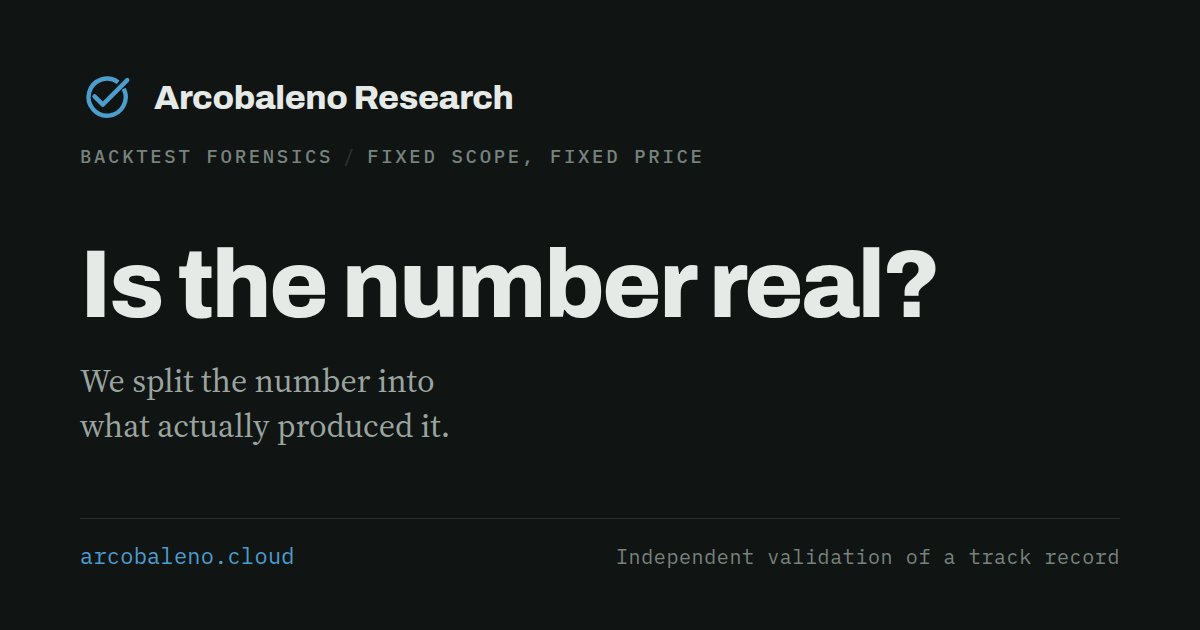
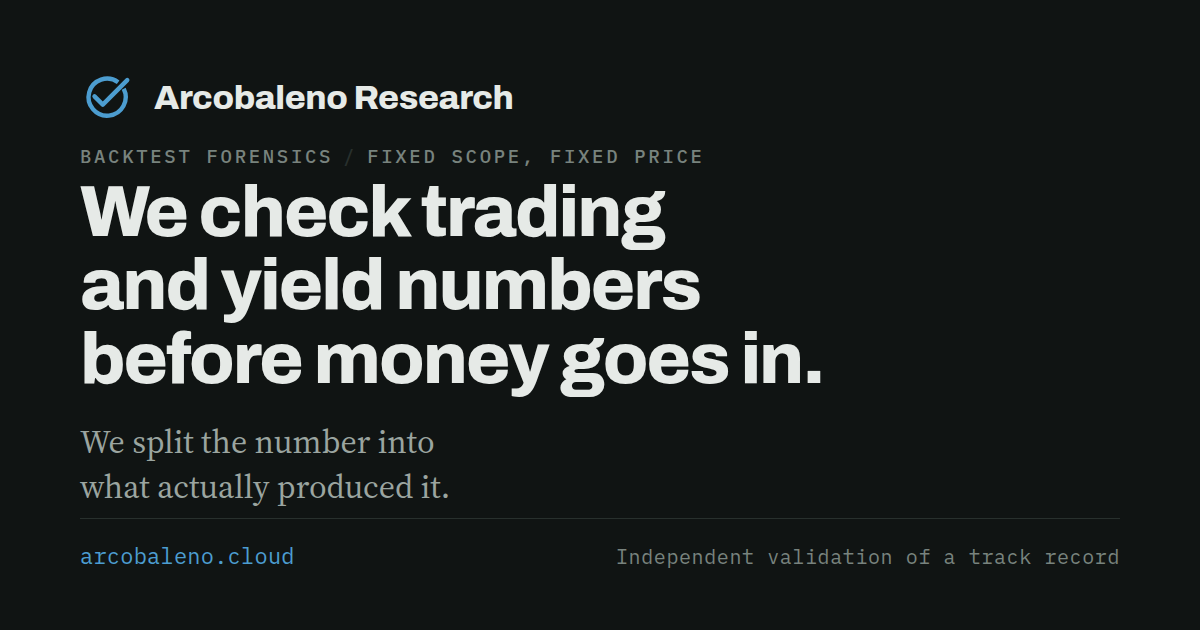
Hero headline: 'We check trading and yield numbers before money goes in.' + social card

Changed region(s): [[0.0617, 0.2714, 0.8017, 0.6333], [0.0617, 0.6635, 0.37, 0.7238], [0.0617, 0.754, 0.37, 0.8143]]

diff --git a/index.html b/index.html
@@ -18,12 +18,12 @@
 <meta property="og:image:type" content="image/png">
 <meta property="og:image:width" content="1200">
 <meta property="og:image:height" content="630">
-<meta property="og:image:alt" content="Arcobaleno Research — Is the number real? Backtest forensics, fixed scope, fixed price.">
+<meta property="og:image:alt" content="Arcobaleno Research — We check trading and yield numbers before money goes in. Backtest forensics, fixed scope, fixed price.">
 <meta name="twitter:card" content="summary_large_image">
 <meta name="twitter:title" content="Backtest Forensics — Arcobaleno Research">
 <meta name="twitter:description" content="Fixed-scope backtest audits from Arcobaleno Research. Ten findings published against our own work — reproducibility, data integrity, cost models, staleness, confidence intervals and evidence count.">
 <meta name="twitter:image" content="https://arcobaleno.cloud/card.png">
-<meta name="twitter:image:alt" content="Arcobaleno Research — Is the number real? Backtest forensics, fixed scope, fixed price.">
+<meta name="twitter:image:alt" content="Arcobaleno Research — We check trading and yield numbers before money goes in. Backtest forensics, fixed scope, fixed price.">
 
 <link rel="preload" href="/fonts/Archivo-latin-8f704806.woff2" as="font" type="font/woff2" crossorigin>
 <link rel="preload" href="/fonts/SourceSerif4-latin-f2ea9c12.woff2" as="font" type="font/woff2" crossorigin>
@@ -581,7 +581,7 @@
       <span>Backtest Forensics</span><span class="dot">/</span>
       <span>Fixed scope, fixed price</span>
     </div>
-    <h1>Is the number real?</h1>
+    <h1>We check trading and yield numbers before money goes in.</h1>
     <p class="standfirst">
       Before anyone puts money behind a trading strategy, someone should check that its track record
       is actually true. <strong>That is the whole job.</strong>

diff --git a/method/index.html b/method/index.html
@@ -18,12 +18,12 @@
 <meta property="og:image:type" content="image/png">
 <meta property="og:image:width" content="1200">
 <meta property="og:image:height" content="630">
-<meta property="og:image:alt" content="Arcobaleno Research — Is the number real? Backtest forensics, fixed scope, fixed price.">
+<meta property="og:image:alt" content="Arcobaleno Research — We check trading and yield numbers before money goes in. Backtest forensics, fixed scope, fixed price.">
 <meta name="twitter:card" content="summary_large_image">
 <meta name="twitter:title" content="What we check — Arcobaleno Research">
 <meta name="twitter:description" content="What a backtest audit from Arcobaleno Research actually checks: the eight standing tests, what we need from you, and the asset classes we do and do not cover.">
 <meta name="twitter:image" content="https://arcobaleno.cloud/card.png">
-<meta name="twitter:image:alt" content="Arcobaleno Research — Is the number real? Backtest forensics, fixed scope, fixed price.">
+<meta name="twitter:image:alt" content="Arcobaleno Research — We check trading and yield numbers before money goes in. Backtest forensics, fixed scope, fixed price.">
 
 <link rel="preload" href="/fonts/Archivo-latin-8f704806.woff2" as="font" type="font/woff2" crossorigin>
 <link rel="preload" href="/fonts/SourceSerif4-latin-f2ea9c12.woff2" as="font" type="font/woff2" crossorigin>
